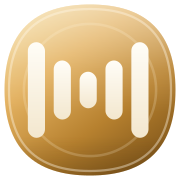
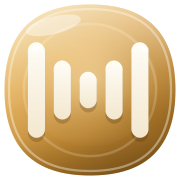
feat(brand+fix): 'random' RESURRECTED 👁 and the seal finally got its soul
TWO JOBS, BOTH CLOSED:

1. THE INVISIBLE 'random' — background-clip:text refuses to paint through
   inline-block + transformed descendants in chromium, so the gradient sat
   on the segment wrapper while the letters inherited transparent text-fill
   and had NO background of their own. ghost word, explained. KineticText
   now renders shimmer words as ONE masked unit carrying the gradient
   directly — not only is it visible, the gold sweep is finally one
   continuous pass across the whole word.

2. THE SEAL'S MISSING SOUL — the colour was fine, what was missing was
   RELATIONSHIP. the bars floated on the wax like stickers. now:
   - lit-from-within radial glow pours from behind the V
   - 22% contact shadows seat every bar INTO the wax
   - apple-store rim glint, top-left
   - crown dusting on the two tall bars
   the whole family (component + favicon + touch icon + PWA 192/512 +
   maskable) re-cast from this truth 🔥

diff --git a/src/components/Logo.tsx b/src/components/Logo.tsx
@@ -36,6 +36,7 @@ export default function LogoMark({ className = 'w-10 h-10', title = 'Verbalis' }
   const topLightId = `vbTopLight-${uid}`;
   const shadeId = `vbShade-${uid}`;
   const barLightId = `vbBarLight-${uid}`;
+  const glowId = `vbGlow-${uid}`;
   const clipId = `vbSealClip-${uid}`;
 
   return (
@@ -71,6 +72,12 @@ export default function LogoMark({ className = 'w-10 h-10', title = 'Verbalis' }
           <stop offset="0%" stopColor="#FFFDF7" />
           <stop offset="100%" stopColor="#F3E7CE" />
         </linearGradient>
+        {/* the soul: warm light pouring from behind the V */}
+        <radialGradient id={glowId} cx="0.5" cy="0.46" r="0.58">
+          <stop offset="0%" stopColor="#FFE9B8" stopOpacity="0.5" />
+          <stop offset="55%" stopColor="#FFE9B8" stopOpacity="0.16" />
+          <stop offset="100%" stopColor="#FFE9B8" stopOpacity="0" />
+        </radialGradient>
         <linearGradient id={sheenId} x1="0" y1="0" x2="1" y2="0">
           <stop offset="0%" stopColor="#FFFFFF" stopOpacity="0" />
           <stop offset="50%" stopColor="#FFFFFF" stopOpacity="0.55" />
@@ -88,6 +95,8 @@ export default function LogoMark({ className = 'w-10 h-10', title = 'Verbalis' }
       <g clipPath={`url(#${clipId})`}>
         <rect x="0" y="0" width="64" height="64" fill={`url(#${topLightId})`} />
         <rect x="0" y="0" width="64" height="64" fill={`url(#${shadeId})`} />
+        {/* lit from within — the glow the seal was missing */}
+        <ellipse cx="32" cy="30" rx="24" ry="22" fill={`url(#${glowId})`} />
         {/* one whisper ripple — voice made visible, nothing more
             (fill="none" is not optional: default fill is black) */}
         <circle cx="32" cy="32" r="23.5" fill="none" stroke="#FFF6DE" strokeOpacity="0.20" strokeWidth="0.9" />
@@ -100,13 +109,29 @@ export default function LogoMark({ className = 'w-10 h-10', title = 'Verbalis' }
       {/* jewel hairline — inset, breath-thin */}
       <path d={SQUIRCLE_INNER} fill="none" stroke="#FFF9E8" strokeOpacity="0.4" strokeWidth="0.8" />
 
-      {/* the V of voice — Fibonacci heights 34 : 21 : 13 : 21 : 34 */}
+      {/* rim glint — the apple-store catch-light, top-left */}
+      <ellipse cx="19" cy="9" rx="10" ry="3.1" fill="#FFFFFF" opacity="0.42" transform="rotate(-14 19 9)" />
+
+      {/* the V of voice — grounded in the wax, not floating on it:
+          a contact shadow under every bar, then the crown-lit ivory */}
+      <g fill="#3C2608" opacity="0.22" transform="translate(0,1.5)">
+        <rect x="9.9"  y="15"   width="6.1" height="34" rx="3.05" />
+        <rect x="19.1" y="21.5" width="6.1" height="21" rx="3.05" />
+        <rect x="28.95" y="26"  width="6.1" height="13" rx="3.05" />
+        <rect x="38.8" y="21.5" width="6.1" height="21" rx="3.05" />
+        <rect x="48"   y="15"   width="6.1" height="34" rx="3.05" />
+      </g>
       <g fill={`url(#${barLightId})`}>
         <rect x="9.9"  y="15"   width="6.1" height="34" rx="3.05" />
         <rect x="19.1" y="21.5" width="6.1" height="21" rx="3.05" />
         <rect x="28.95" y="26"  width="6.1" height="13" rx="3.05" />
         <rect x="38.8" y="21.5" width="6.1" height="21" rx="3.05" />
         <rect x="48"   y="15"   width="6.1" height="34" rx="3.05" />
+      </g>
+      {/* crown dust — a breath of light on the two tallest bars */}
+      <g fill="#FFFFFF" opacity="0.5">
+        <rect x="11.1" y="16.4" width="3.6" height="2.2" rx="1.1" />
+        <rect x="49.2" y="16.4" width="3.6" height="2.2" rx="1.1" />
       </g>
     </svg>
   );

diff --git a/src/components/KineticText.tsx b/src/components/KineticText.tsx
@@ -43,11 +43,36 @@ export default function KineticText({ segments, className, delay = 0.05, stagger
       }}
       aria-label={segments.map(s => s.text).join('')}
     >
-      {segments.map((seg, si) => (
-        <span key={si} className={seg.className}>
+      {segments.map((seg, si) => {
+        // shimmer words can't be cut into inline-block letters:
+        // background-clip:text does not paint through transformed/inline-block
+        // descendants in Chromium — the gradient never reaches the per-letter
+        // masks while text-fill inherits transparency → INVISIBLE WORD.
+        // the whole word becomes one masked unit carrying the gradient
+        // directly (which also makes the gold sweep one continuous pass).
+        const shimmer = /shimmer-text/.test(seg.className ?? '');
+        const segClass = shimmer ? (seg.className ?? '').replace(/ ?shimmer-text/, '') : seg.className;
+        return (
+        <span key={si} className={segClass}>
           {seg.text.split(/(\s+)/).map((tok, wi) =>
             /^\s+$/.test(tok) ? (
               <span key={wi}>{'\u00A0'}</span>
+            ) : shimmer ? (
+              <span key={wi} className="inline-block overflow-hidden pb-[0.08em] -mb-[0.08em] align-baseline" aria-hidden="true">
+                <motion.span
+                  className="inline-block will-change-transform shimmer-text"
+                  variants={{
+                    hidden: { y: '115%', rotate: 2 },
+                    show: {
+                      y: '0%',
+                      rotate: 0,
+                      transition: { type: 'spring', stiffness: 300, damping: 24 },
+                    },
+                  }}
+                >
+                  {tok}
+                </motion.span>
+              </span>
             ) : (
               <span key={wi} className="inline-block whitespace-nowrap" aria-hidden="true">
                 {tok.split('').map((ch, ci) => (
@@ -71,7 +96,8 @@ export default function KineticText({ segments, className, delay = 0.05, stagger
             ),
           )}
         </span>
-      ))}
+        );
+      })}
     </motion.span>
   );
 }
